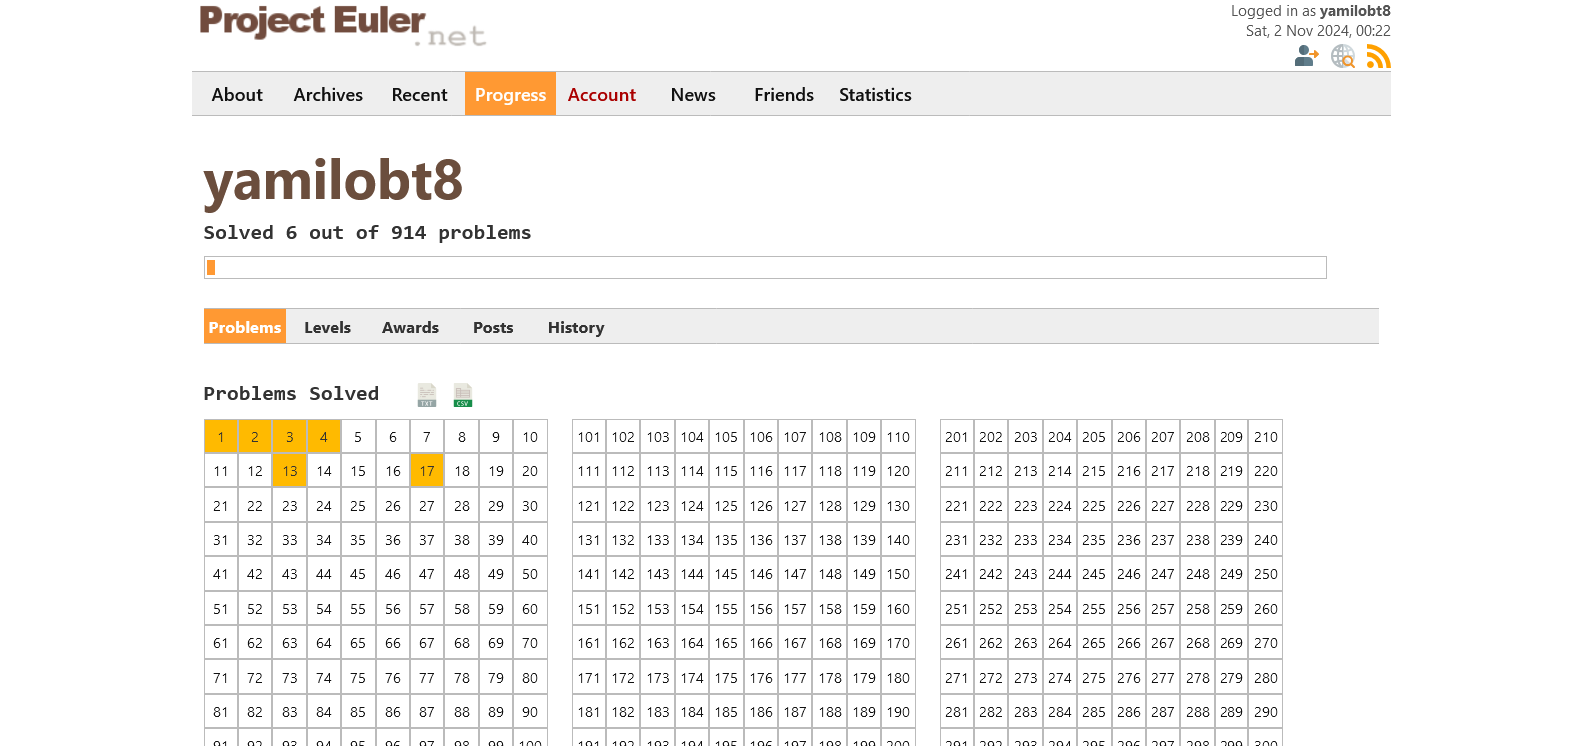
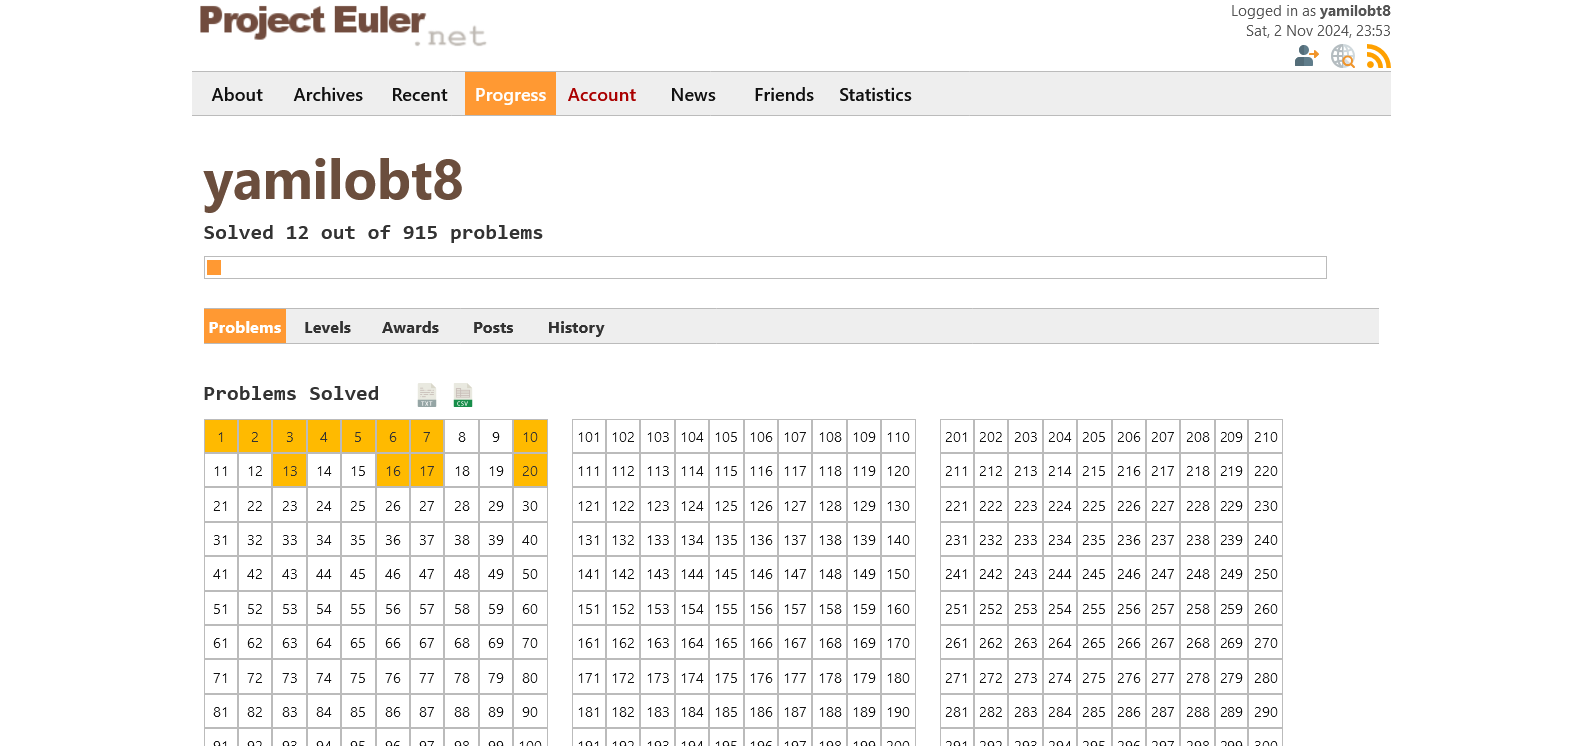
Project Euler First 50 Problem

Changed region(s): [[0.3097, 0.555, 0.3717, 0.6475], [0.2168, 0.555, 0.2788, 0.6475], [0.1858, 0.3083, 0.3407, 0.3391]]

diff --git a/10001st_Prime.py b/10001st_Prime.py
@@ -1,0 +1,24 @@
+import math
+
+def is_prime(number):
+    if number <= 1:
+        return False
+    if number in [2, 3]:
+        return True
+    if number % 2 == 0:
+        return False
+    for i in range(3, int(math.sqrt(number)) + 1, 2):
+        if number % i == 0:
+            return False
+    return True
+
+def find_nth_prime(number):
+    count, num = 0, 1
+    while count < number: # We didn't Find nth prime numbers yet
+        num += 1
+        if is_prime(num):
+            count += 1
+    return num # we exit the loop after finding the nth prime and return it
+
+number = int(input('entre The nth Prime you would like to see: '))
+print(find_nth_prime(number))

diff --git a/Summation_of_Primes.py b/Summation_of_Primes.py
@@ -1,0 +1,21 @@
+import math
+
+def is_prime(number):
+    if number <= 1:
+        return False
+    if number in [2, 3]:
+        return True
+    if number % 2 == 0:
+        return False
+    for i in range(3, int(math.sqrt(number)) + 1, 2):
+        if number % i == 0:
+            return False
+    return True
+
+limit = int(input('entre The limit: ')) # in our case 2000000
+primes_summation = 0
+
+for i in range(2, limit):
+    if is_prime(i):
+        primes_summation += i
+print(primes_summation)

diff --git a/Sum_Square_Difference.py b/Sum_Square_Difference.py
@@ -1,0 +1,17 @@
+def get_squares_sum(number):
+    square_sum = 0
+    for i in range(1, number + 1):
+        square_sum += i ** 2
+    return square_sum
+
+def get_sum_square(number):
+    sum_square = 0
+    for i in range(1, number + 1):
+        sum_square += i
+    return sum_square ** 2
+
+number = int(input('entre the number: ')) # in our case 100
+square_sum = get_squares_sum(number)
+sum_square = get_sum_square(number)
+
+print(f'Diff: {sum_square - square_sum}')

diff --git a/Factorial_Digit_Sum.py b/Factorial_Digit_Sum.py
@@ -1,0 +1,11 @@
+def factorial(n): # using recursion to calculate recursion
+    if n <= 1:
+        return 1
+    return n * factorial(n - 1)
+
+n = int(input('entre n!: ')) # in our case 100
+result = str(factorial(n)).replace('0', '') # deleting 0's from the result to reduce time complexity
+factorial_sum = 0
+for i in range(len(result)):
+    factorial_sum += int(result[i])
+print(factorial_sum)

diff --git a/Smallest_Multiple.py b/Smallest_Multiple.py
@@ -1,0 +1,11 @@
+smallest_number = 2520 # Starting Point
+
+while True:
+    for i in range(1, 21): # Looping on The divisable numbers
+        if smallest_number % i != 0: # checking if there is any remainder
+            break
+    else:
+        break
+    smallest_number += 20 # increasing the number by 20 to reduct time complexity
+
+print(smallest_number)

diff --git a/Power_Digit_Sum.py b/Power_Digit_Sum.py
@@ -1,0 +1,6 @@
+number = str(2 ** 1000) # converting the number to a string so we can get his lenght
+digits_sum = 0 
+for i in range(len(number)): # loop over the number digits
+    digits_sum += int(number[i]) 
+
+print(digits_sum)
